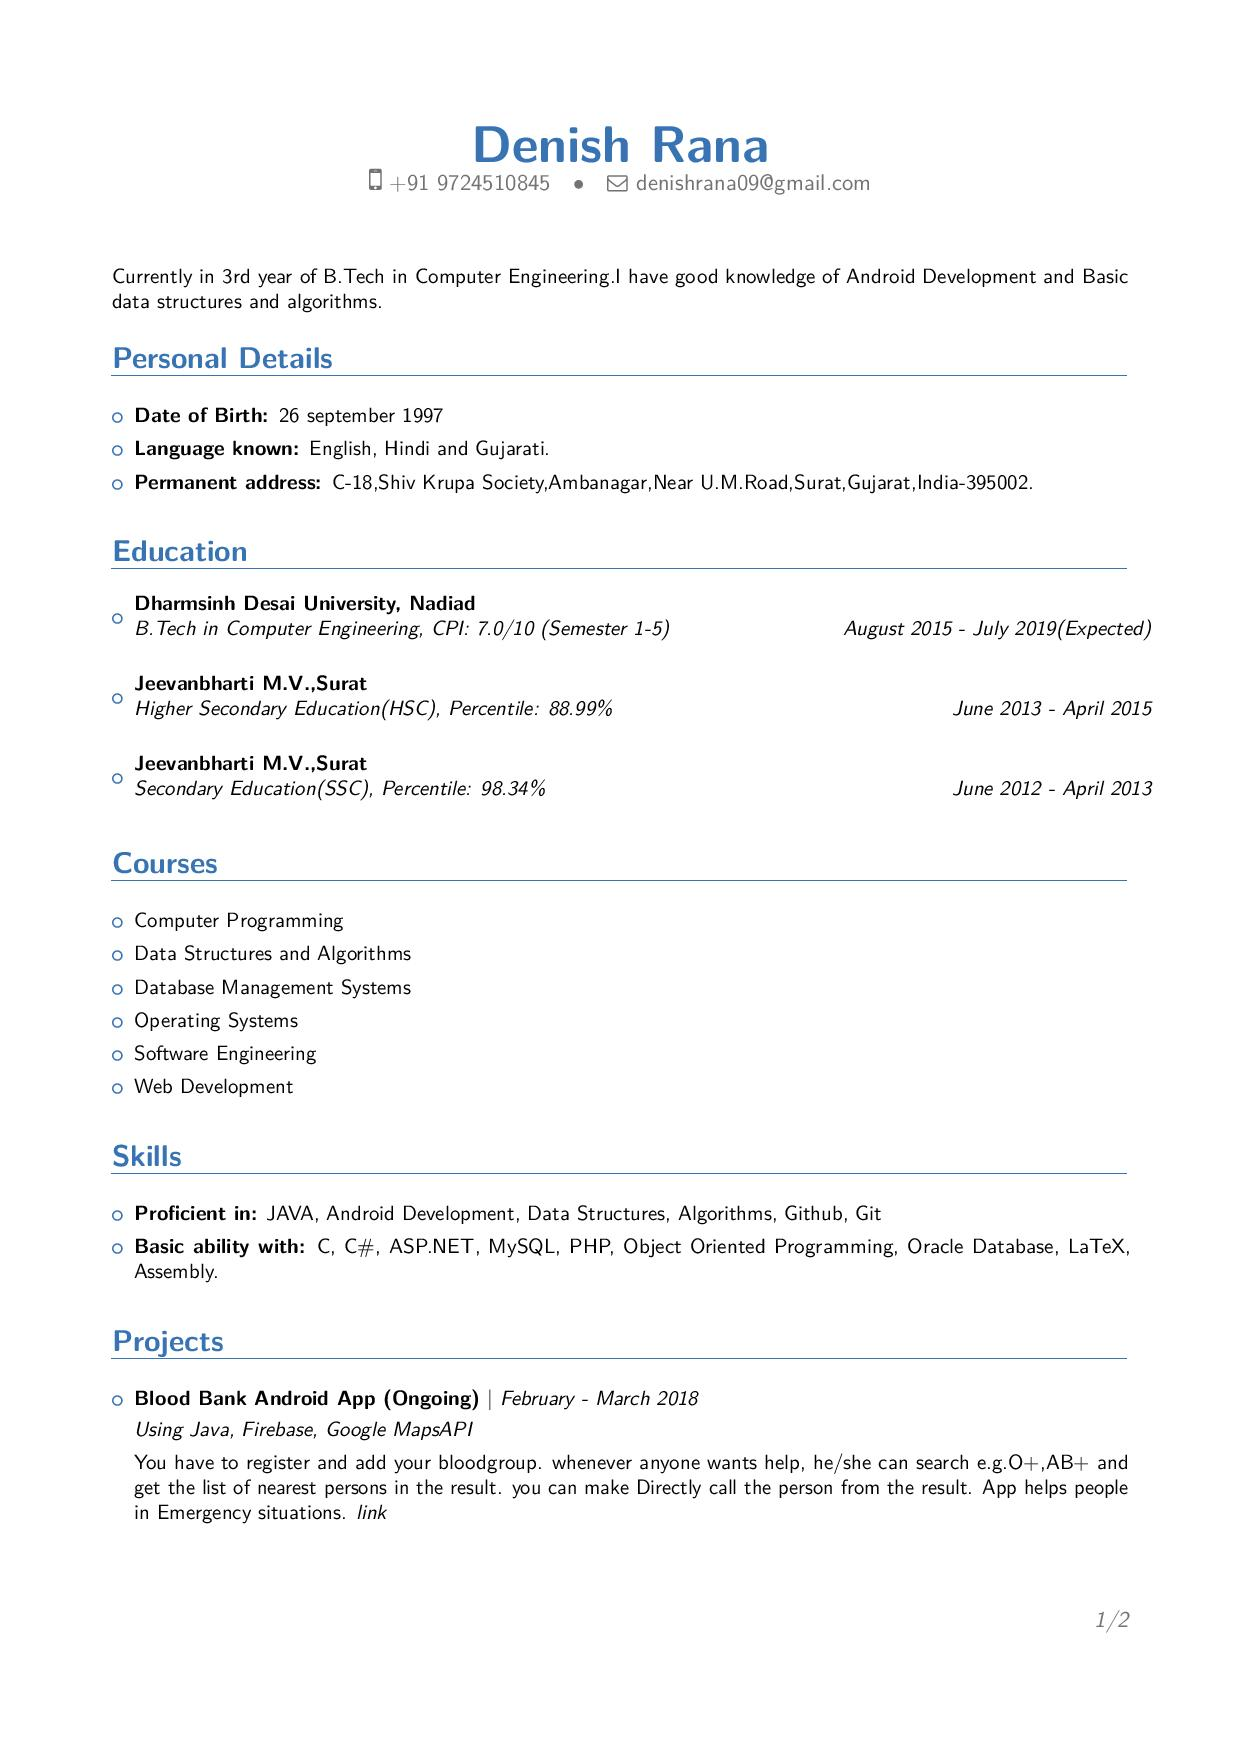
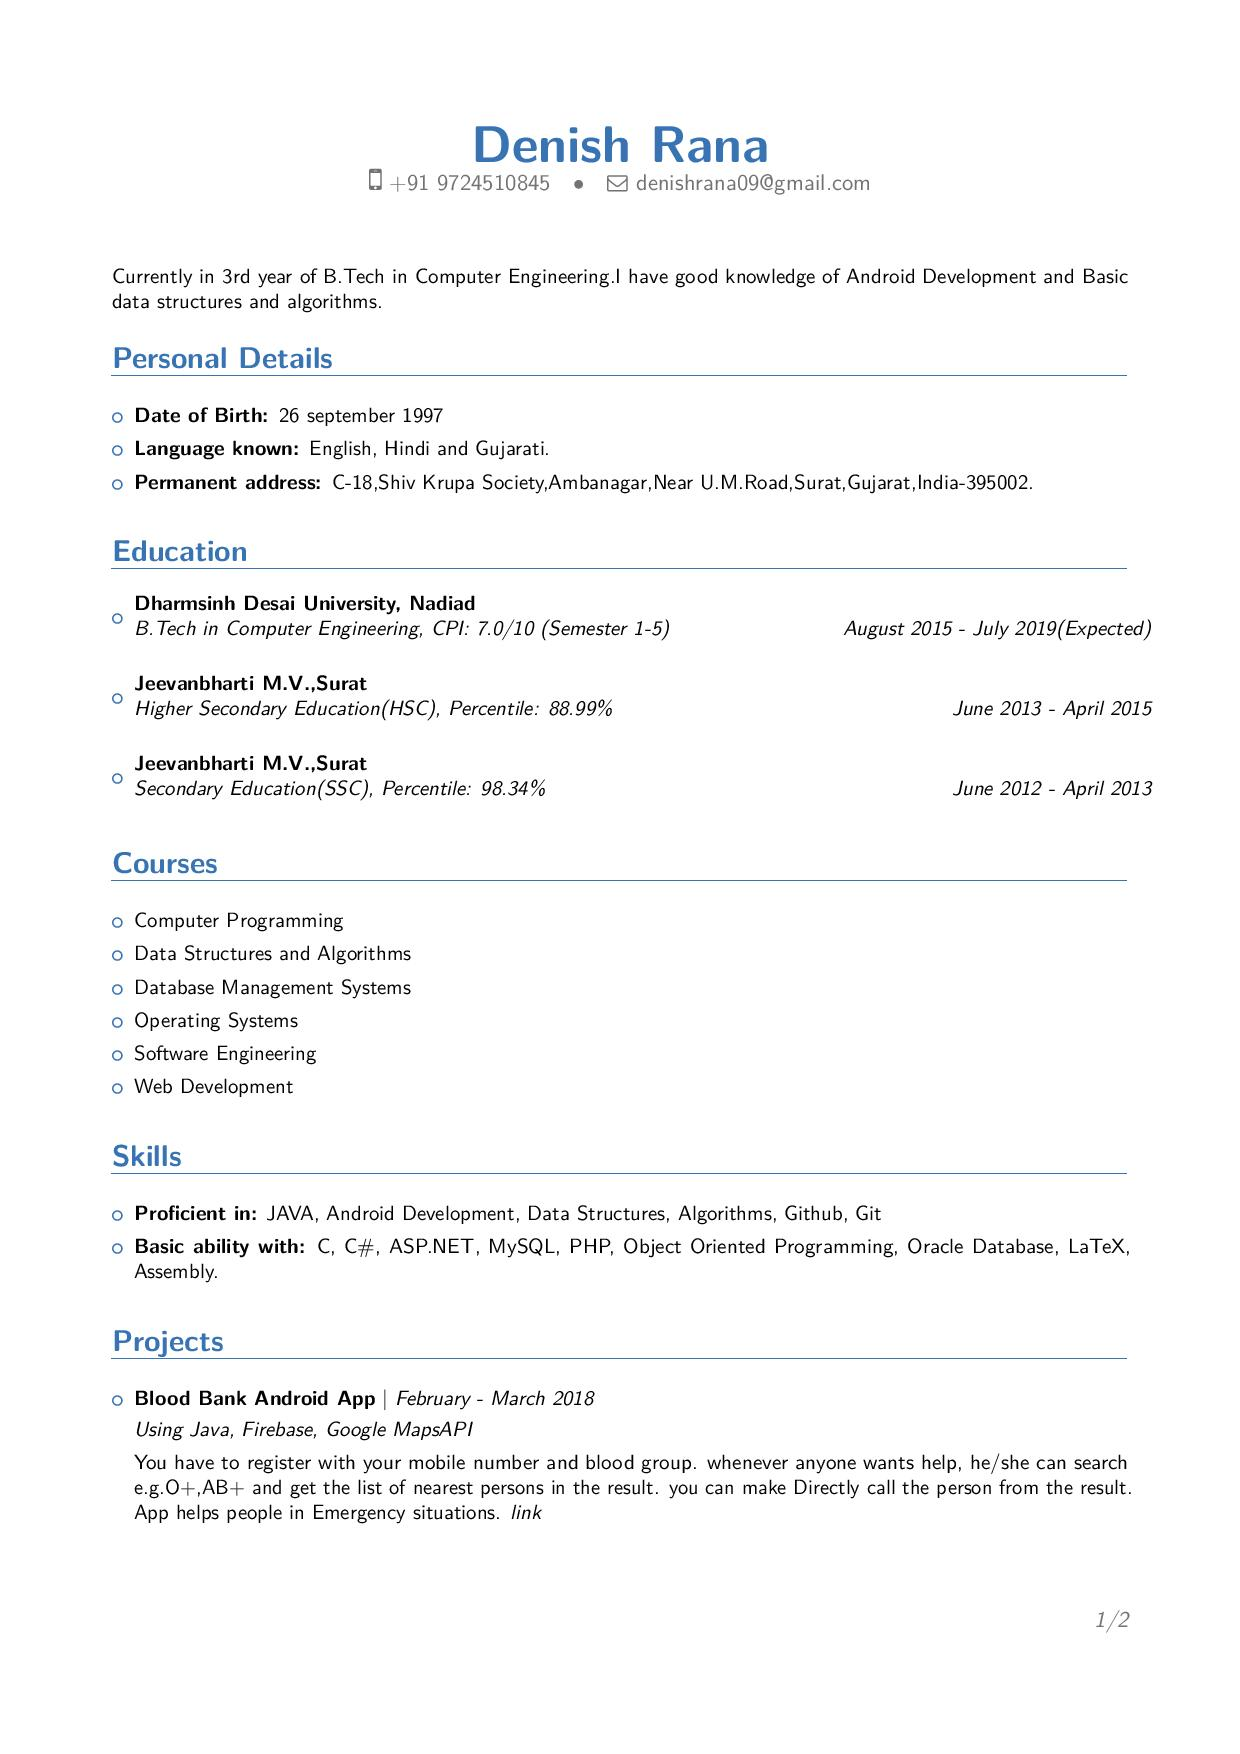
updated

Changed region(s): [[0.0919, 0.8312, 0.9194, 0.8928], [0.3984, 0.7697, 0.4903, 0.8005], [0.3065, 0.7697, 0.3677, 0.8005]]

diff --git a/Denish Resume/denish_resume.tex b/Denish Resume/denish_resume.tex
@@ -105,7 +105,7 @@
 
 \begin{itemize}
 
-\item \textbf{Blood Bank Android App (Ongoing)} | \textit{February - March 2018} \vspace{3pt}\newline\textit{Using Java, Firebase, Google MapsAPI}\vspace{4pt}\newline \small{You have to register and add your bloodgroup. whenever anyone wants help, he/she can search e.g.O+,AB+ and get the list of nearest persons in the result. you can make Directly call the person from the result. App helps people in Emergency situations.} \href{https://github.com/denishrana09/BloodBankApp}{\textit{link}}\vspace{6pt}
+\item \textbf{Blood Bank Android App} | \textit{February - March 2018} \vspace{3pt}\newline\textit{Using Java, Firebase, Google MapsAPI}\vspace{4pt}\newline \small{You have to register with your mobile number and blood group. whenever anyone wants help, he/she can search e.g.O+,AB+ and get the list of nearest persons in the result. you can make Directly call the person from the result. App helps people in Emergency situations.} \href{https://github.com/denishrana09/BloodBankApp}{\textit{link}}\vspace{6pt}
 
 \newpage
 
@@ -136,7 +136,10 @@
 
 \item{Made College Festival Android App }\vspace{6pt}
 
+\item{Taken Part in SVNIT Hackathon }\vspace{6pt}
+
 \end{itemize}
+
 
 \section{Links}
 
@@ -164,3 +167,4 @@
 
 
 %% end of file `template.tex'.
+
